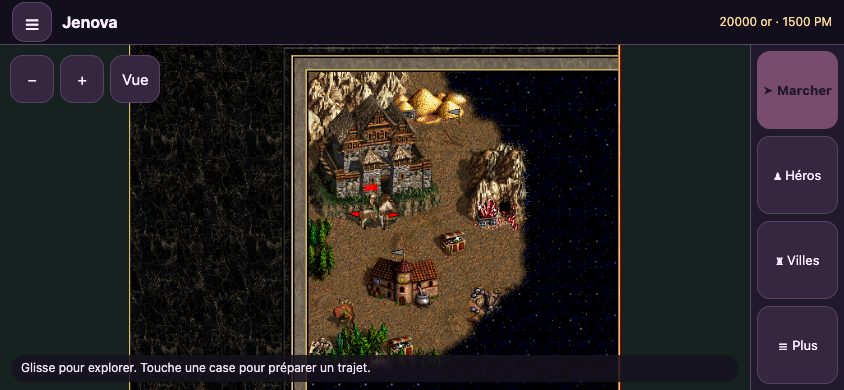
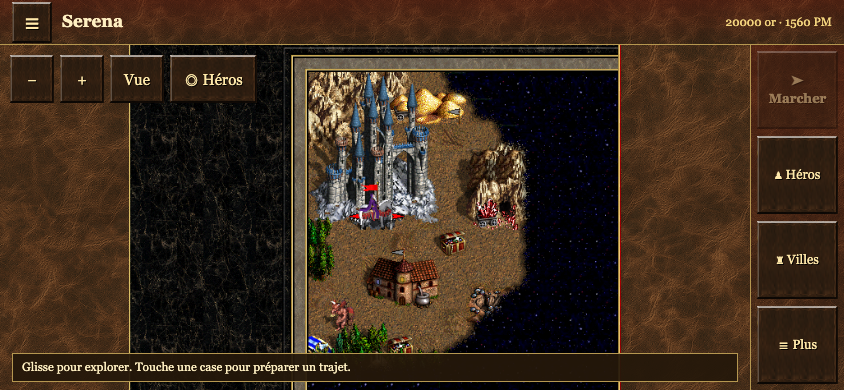
Identify local game storage and add save-preserving cleanup

diff --git a/web/game-menu.css b/web/game-menu.css
@@ -3,3 +3,5 @@
 #game-menu{box-sizing:border-box;width:min(600px,calc(100% - 24px));max-height:calc(100dvh - 32px);padding:0;border:1px solid #71587d;border-radius:22px;background:#21192c;color:#f8efff;font:16px/1.45 system-ui;overscroll-behavior:contain}
 #game-menu::backdrop{background:#090510bc}#game-menu header{display:flex;align-items:center;gap:16px;padding:16px 18px;border-bottom:1px solid #584365}#game-menu h2{margin:0;flex:1;font-size:23px;color:#f9d897}#game-menu h3{margin:0 0 7px;font-size:17px}#game-menu button{min-height:46px;padding:10px 15px;border:1px solid #71587d;border-radius:12px;color:#f8efff;background:#3a2a46;font:inherit;cursor:pointer;touch-action:manipulation}#game-menu button:focus-visible{outline:3px solid #f9d897;outline-offset:2px}#game-menu button:disabled{opacity:.45;cursor:default}#game-menu [aria-pressed=true],#game-menu .primary{background:#ef92cb;color:#29132b;font-weight:750}#game-menu nav{display:flex;gap:8px;padding:14px 18px 0}#game-menu nav button{flex:1}#game-menu .game-menu-body{padding:18px}#game-menu p{color:#d0c2d9}#game-menu .game-cheat{border:1px solid #584365;border-radius:15px;padding:14px;margin:12px 0;background:#2c2037}#game-menu .game-cheat p{font-size:14px;margin:7px 0}#game-menu code{display:block;font-size:13px;color:#f9d897;margin-bottom:12px;overflow-wrap:anywhere}#game-menu .game-cheat button{width:100%}#game-menu .game-menu-status{padding:0 18px 16px;margin:0;font-size:14px;color:#f9d897}#game-menu .sound-toggle{width:100%;min-height:56px}#game-menu [hidden]{display:none!important}
 #game-menu[open]{display:flex;flex-direction:column}#game-menu header,#game-menu nav,#game-menu .game-menu-status{flex-shrink:0}#game-menu .game-menu-body{min-height:0;overflow-y:auto;overscroll-behavior:contain;touch-action:pan-y}
+
+#game-menu nav{flex-wrap:wrap}#game-menu nav button{flex:1 1 110px;padding:8px 6px}#game-menu .storage-identity{padding:14px;border:2px solid #cfad61;background:#3d2c1a;margin-bottom:14px}#game-menu .storage-identity strong{display:block;font-size:24px;color:#fff0b2}#game-menu .storage-identity p{margin:5px 0}#game-menu .storage-site{font:700 15px/1.5 system-ui;overflow-wrap:anywhere;margin:0}#game-menu .storage-sizes{margin:15px 0}#game-menu .storage-sizes div{display:flex;justify-content:space-between;gap:10px;padding:10px 0;border-bottom:1px solid #91713c}#game-menu .storage-sizes dd{margin:0;text-align:right;font-weight:bold}#game-menu summary{min-height:44px;padding:10px 0;cursor:pointer}#game-menu .storage-help p{font-size:14px}#game-menu a{color:#ffe9aa}#game-menu .storage-manage{width:100%;min-height:48px}

diff --git a/web/storage.css b/web/storage.css
@@ -1,0 +1,1 @@
+:root{color-scheme:dark;font-family:Georgia,"Times New Roman",serif;background:#21180f url('./h3-theme/stone.png');color:#ffe9aa}*{box-sizing:border-box}body{margin:0;padding:16px max(12px,env(safe-area-inset-right)) calc(24px + env(safe-area-inset-bottom)) max(12px,env(safe-area-inset-left))}main{max-width:650px;margin:auto;background:#21180fe8;padding:20px;border:3px ridge #c4a45c}h1{margin:0;font-size:clamp(25px,6vw,36px)}p{line-height:1.5;color:#ead9b9}a{color:#ffe9aa}button,.storage-return{min-height:48px;padding:12px;border:3px ridge #c4a45c;background:#5d170d;color:#fff0b2;font:700 16px Georgia;cursor:pointer;touch-action:manipulation}button:disabled{opacity:.45;cursor:default}.storage-return{display:block;text-align:center;margin-top:24px;background:#302418}button:focus-visible,a:focus-visible,summary:focus-visible{outline:3px solid #ffea9c;outline-offset:3px}.storage-identity{margin:20px 0;padding:16px;border:2px solid #cfad61;background:#3d2c1a}.storage-identity strong{display:block;font-size:24px;color:#ffefb5}.storage-identity p{margin:6px 0}.storage-site{display:block;font:700 17px/1.5 system-ui;overflow-wrap:anywhere;color:#fff0b2}.storage-sizes{margin:20px 0}.storage-sizes div{display:flex;justify-content:space-between;gap:14px;padding:12px 0;border-bottom:1px solid #91713c}.storage-sizes dd{margin:0;text-align:right;font-weight:bold}summary{min-height:44px;padding:10px 0;cursor:pointer}.storage-help p{font-size:15px}#clear-confirm{padding:12px;border:2px solid #cfad61;margin:12px 0}#clear-confirm button{display:block;width:100%;margin:8px 0}#cancel-clear{background:#302418}#storage-status{color:#ffefb5;font-weight:bold;overflow-wrap:anywhere}[hidden]{display:none!important}

diff --git a/web/storage.html b/web/storage.html
@@ -1,0 +1,1 @@
+<!doctype html><html lang="fr"><head><meta charset="utf-8"><meta name="viewport" content="width=device-width,initial-scale=1,viewport-fit=cover"><meta name="application-name" content="Heroes Goonk"><title>Heroes Goonk — Stockage</title><link rel="stylesheet" href="./web/storage.css"><script type="module" src="./web/storage-page.mjs"></script></head><body><main id="storage-manager" aria-label="Stockage de Heroes Goonk"></main></body></html>

diff --git a/README.md b/README.md
@@ -198,3 +198,11 @@ La carte « Goonks », dans `maps/001-Goonks.vmap`, mesure 144 × 144 cases : ro
 Sept bruitages ElevenLabs Sound Effects v2 sont intégrés au moteur audio natif : nez, lance, flèche électrique, pet de Bubu (premier audio proposé), vomi, caillou et feu. Les évolutions utilisent les mêmes effets adaptés à leur type d’attaque. Les WAV mono PCM 22 050 Hz durent moins de 1,3 seconde ; les fichiers et leur provenance sont dans `mod/goonk/Content/Sounds/goonk/` et `mod/goonk/sound-effects.json`. Les boutons couper/rétablir le son fonctionnent avec ces effets. Le générateur de créatures conserve ces associations et copie les sons.
 
 Validation : 44 tests automatiques, compilation WebAssembly `ninja -j32 html5`, vérification du site, démarrage réel XL et accès au recrutement Goonk, démarrage avec la faction Castle et recrutement Pikeman, passage réel au jour 2 après le tour IA, annulation de retraite après rotation puis retraite complète. Un autre test effectue un vrai tir de Bubu, vérifie le chargement du WAV et le mute/unmute sans erreur audio. Les contrôles Chromium/WebKit couvrent le bouton Retraite en 390 × 844, 844 × 390 et 568 × 320. Les tests ne constituent pas une partie XL entière terminée ni un essai sur iPhone physique. Rapports : `outputs/goonks-xl-e2e.json`, `outputs/goonk-sound-e2e.json`.
+
+## Identifier et libérer le stockage (0.4.6)
+
+Le menu affiche le nom Heroes Goonk et une rubrique « Stockage du jeu ». Elle montre un encadré HEROES GOONK, le domaine de la page à rechercher dans les données des sites du navigateur, la taille des fichiers du jeu et celle des sauvegardes. Les fichiers sont dans le stockage privé du navigateur pour ce site, pas dans un dossier Téléchargements ; le chemin Linux du moteur est un chemin virtuel et n’est pas présenté comme un dossier réel du téléphone. Les indications couvrent Safari iPhone/iPad, Chrome Android, Chrome/Edge PC et Safari Mac, avec des liens d’aide Apple/Google. Effacer toutes les données du site dans le navigateur efface aussi ses sauvegardes ; le menu l’indique.
+
+La page indépendante `storage.html`, accessible avec « Quitter le jeu et gérer le stockage », propose de supprimer les fichiers Data/Maps/Mp3/Mods avec confirmation, en conservant Saves, les réglages et les autres données. Elle ne lance pas le moteur ni le téléchargement, et invalide uniquement l’index des fichiers installés pour les retélécharger à la prochaine ouverture du jeu. Un verrou partagé pendant une session de jeu et exclusif pendant le nettoyage bloque la suppression si un autre onglet compatible joue encore. Le bouton de sortie vers la gestion est bloqué en combat ou dans une fenêtre du jeu. Les pages de jeu restaurées depuis le cache de navigation se rechargent pour remonter correctement les fichiers. Si l’API de stockage ou les verrous sont indisponibles, la page explique de passer par les réglages du navigateur. Netlify et GitHub Pages ont des stockages séparés.
+
+Validation : 49 tests automatiques ; nettoyage réel de six fichiers factices de moins de 100 octets dans un profil Chromium neuf et isolé, avec vérification préalable du stockage vide, annulation, refus si un autre onglet est actif, conservation octet pour octet d’une sauvegarde et des réglages, conservation du choix du son. WebKit en contexte privé refuse l’OPFS dans cet environnement : le scénario vérifie alors l’identification visible, les instructions et la suppression désactivée, sans prétendre avoir testé un nettoyage Safari/iPhone réel. Le test avec le vrai moteur vérifie aussi le démarrage d’une partie 1 contre 1, le rendu portrait/paysage et le déplacement du héros. Rapports : `outputs/storage-e2e.json` et `outputs/one-on-one-e2e.json`.
